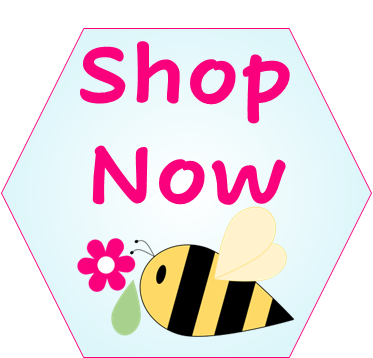
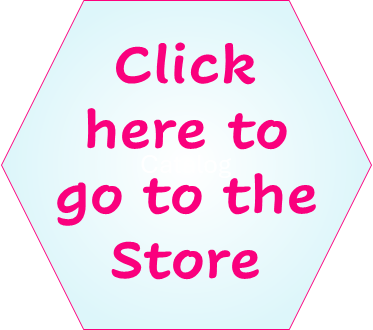
modificacion store

diff --git a/src/app/pages/footer/footer.component.html b/src/app/pages/footer/footer.component.html
@@ -44,7 +44,12 @@
                 </div>
                 <div class="col-sm col-xxl-3 col-xl-3 col-lg-3 col-md-3 footer__container__row__location">
                     <i class="bi bi-geo-alt-fill pink-color"></i>
-                    Martin County,<br> Port Saint Lucie County<br>and Palm Beach County
+                    Martin, Port Saint Lucie,<br>and Palm Beach Countries <br>
+                    <p>
+                        <a href="https://shop.abstractbeezzz.com/" target="_blank" style="text-decoration: none; color: black;">
+                            <i class="bi bi-cart3 pink-color"></i> Visit our Store
+                        </a>      
+                    </p>               
                 </div>
                 <div class="container" >
                     <div class="row  d-flex justify-content-center align-items-center">
@@ -113,7 +118,12 @@
                             Service Area
                         </p>
                         <i class="bi bi-geo-alt-fill pink-color"></i>
-                        Martín County,<br> Port Saint Lucie County<br>and Palm Beach County
+                        Martin, Port Saint Lucie,<br>and Palm Beach Countries <br>
+                        <p>
+                           <a href="https://shop.abstractbeezzz.com/" target="_blank" style="text-decoration: none; color: black;">
+                                <i class="bi bi-cart3 pink-color"></i> Visit our Store
+                            </a>                         
+                        </p>
                     </div>
                 </div>                   
                 <div class="container" >
@@ -182,7 +192,12 @@
                         Service Area
                     </p>
                     <i class="bi bi-geo-alt-fill pink-color"></i>
-                    Martin County, <br>Port Saint Lucie County<br>and Palm Beach County 
+                    Martin, Port Saint Lucie,<br>and Palm Beach Countries <br>
+                    <p>
+                       <a href="https://shop.abstractbeezzz.com/" target="_blank" style="text-decoration: none; color: black;">
+                            <i class="bi bi-cart3 pink-color"></i> Visit our Store
+                        </a>                             
+                    </p>
                 </div>
                 <div class="container" >
                     <div class="row  d-flex justify-content-center align-items-center">

diff --git a/src/app/pages/information/information.component.html b/src/app/pages/information/information.component.html
@@ -108,7 +108,20 @@
         </div>
       </div>
     </div> 
-      
+    <div class="">
+      <div class="row justify-content-center card__information__container__row">
+        <div class="col-1 card__information__container__row__icon">
+          <a href="https://shop.abstractbeezzz.com/" target="_blank">
+            <i class="bi bi-cart3 pink-color"></i> 
+          </a>  
+        </div>
+        <div class="col-8 card__information__container__row__contact" >
+          <a href="https://shop.abstractbeezzz.com" target="_blank"  class="card__information__container__row__contact__num__a">
+            {{information.CONTACT_STORE}}
+          </a>
+        </div>
+      </div>
+    </div>  
   </div> 
 </div>    
 

diff --git a/src/app/core/constants/information.constants.ts b/src/app/core/constants/information.constants.ts
@@ -7,6 +7,7 @@ export const INFORMATION = {
     CONTACT_EMAIL: 'abstractbeezzz@gmail.com',
     CONTACT_EMAIL_BEE: 'livebeeremoval@\nabstractbeezzz.com',
     CONTACT_INSTAGRAM: '@Abstractbeezzz',
-    CONTACT_ADRESS: 'Martin County,\nPort Saint Lucie County\nand Palm Beach County'
+    CONTACT_ADRESS: 'Martin, Port Saint Lucie, \nand Palm Beach Counties',
+    CONTACT_STORE: 'Visit our Store'
 }
 
